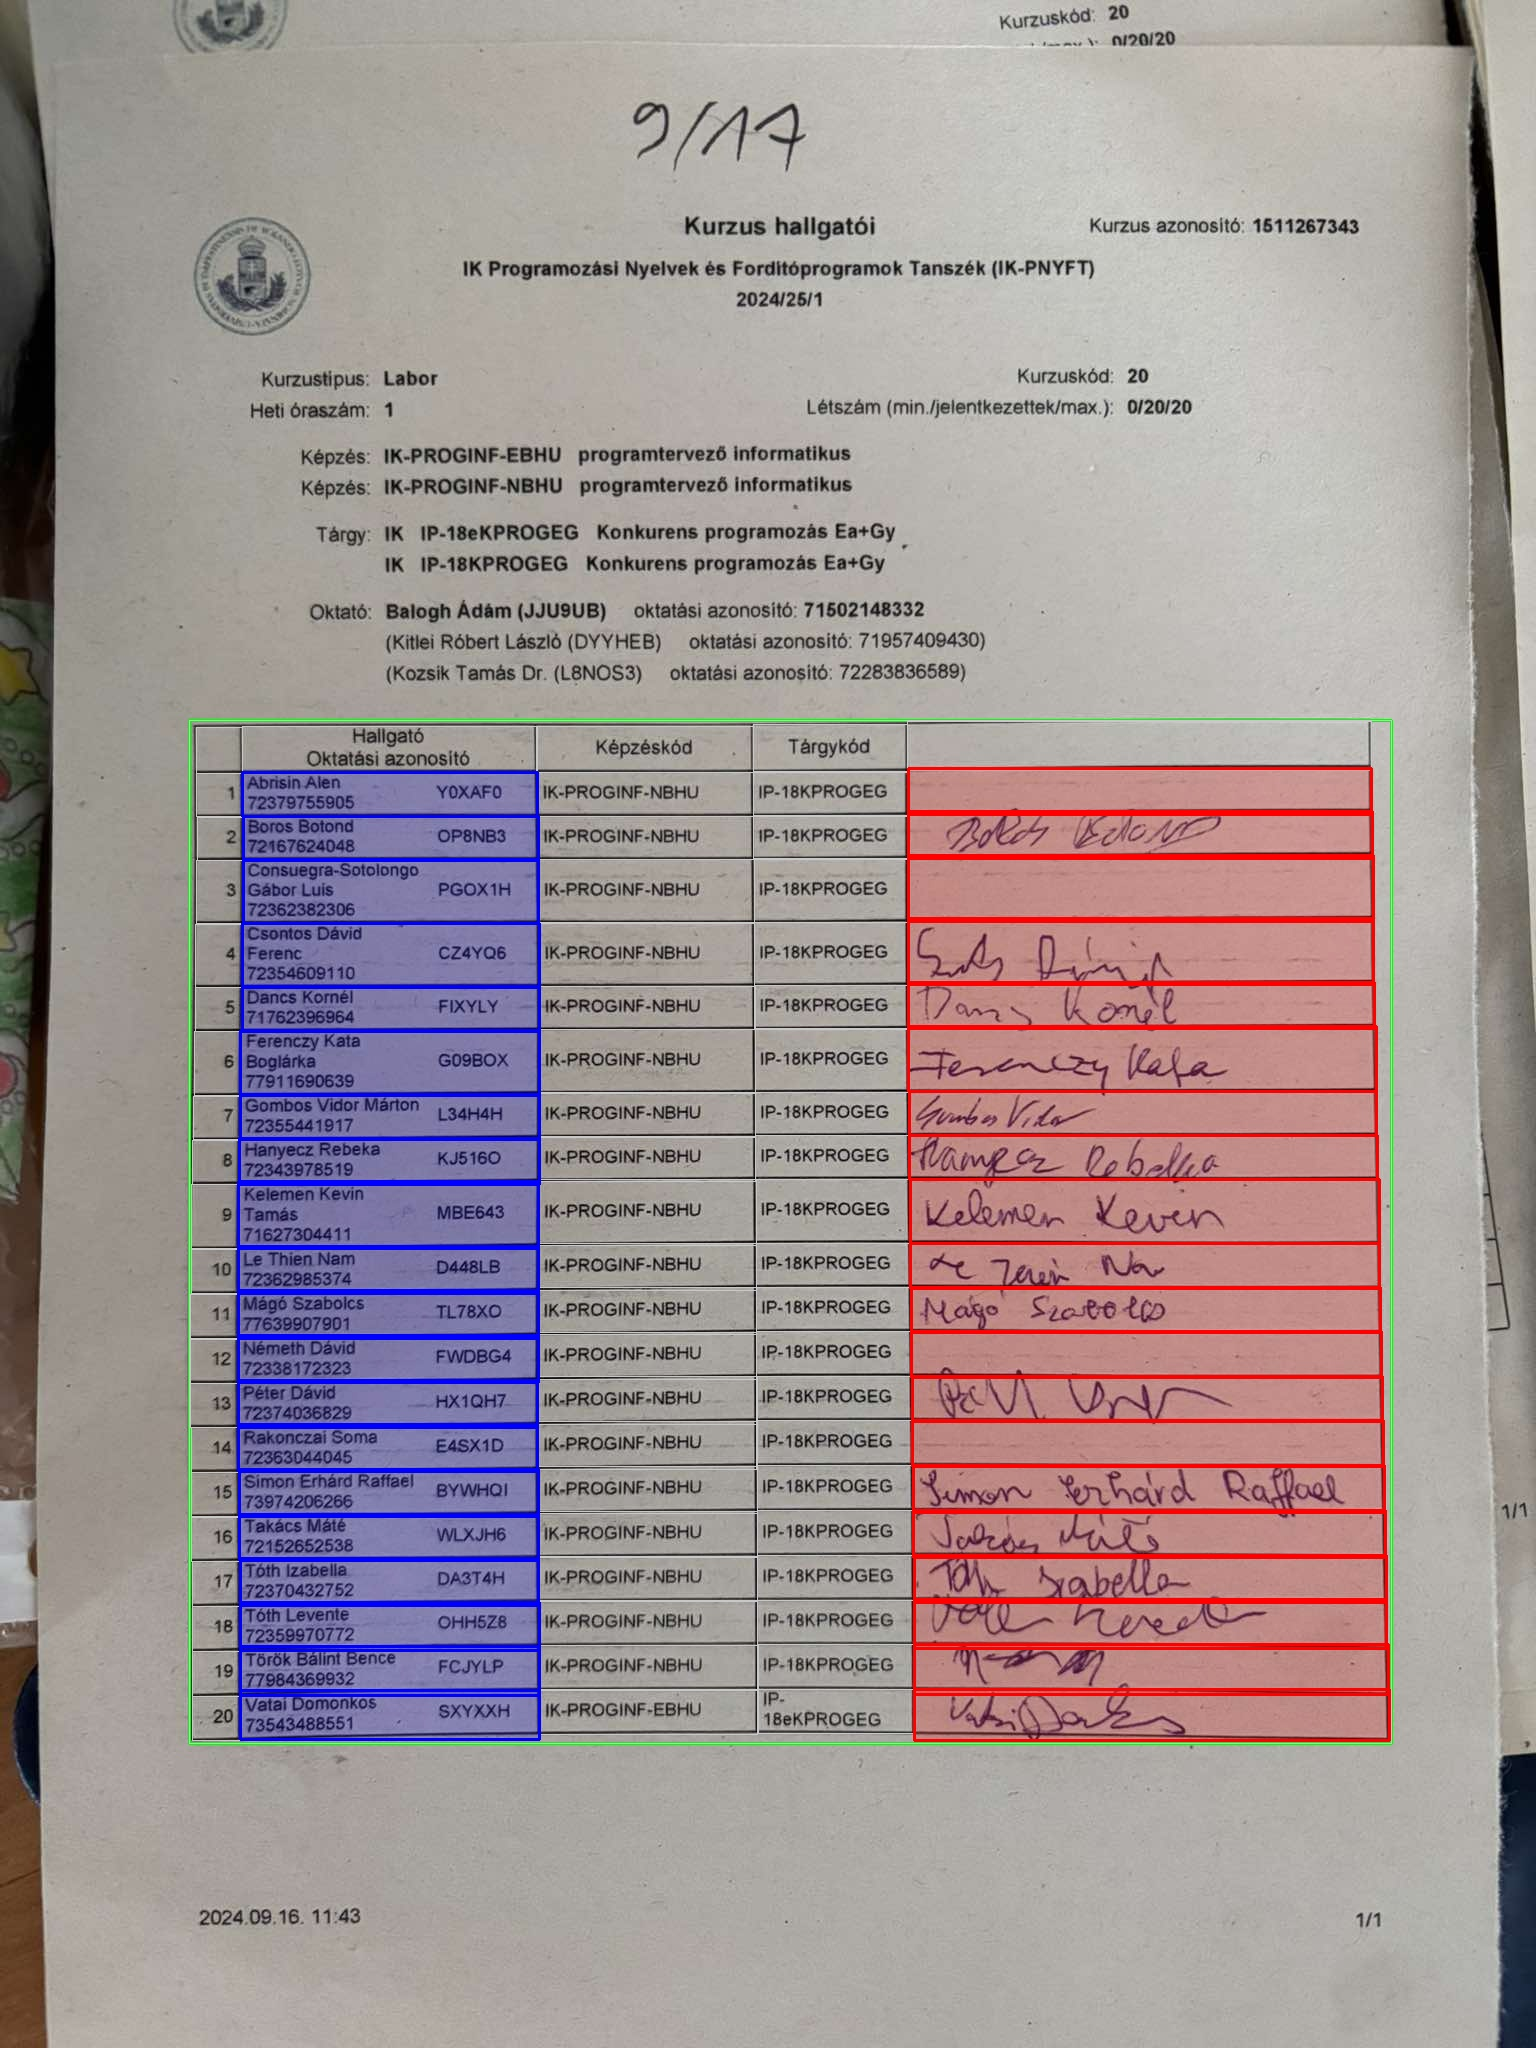
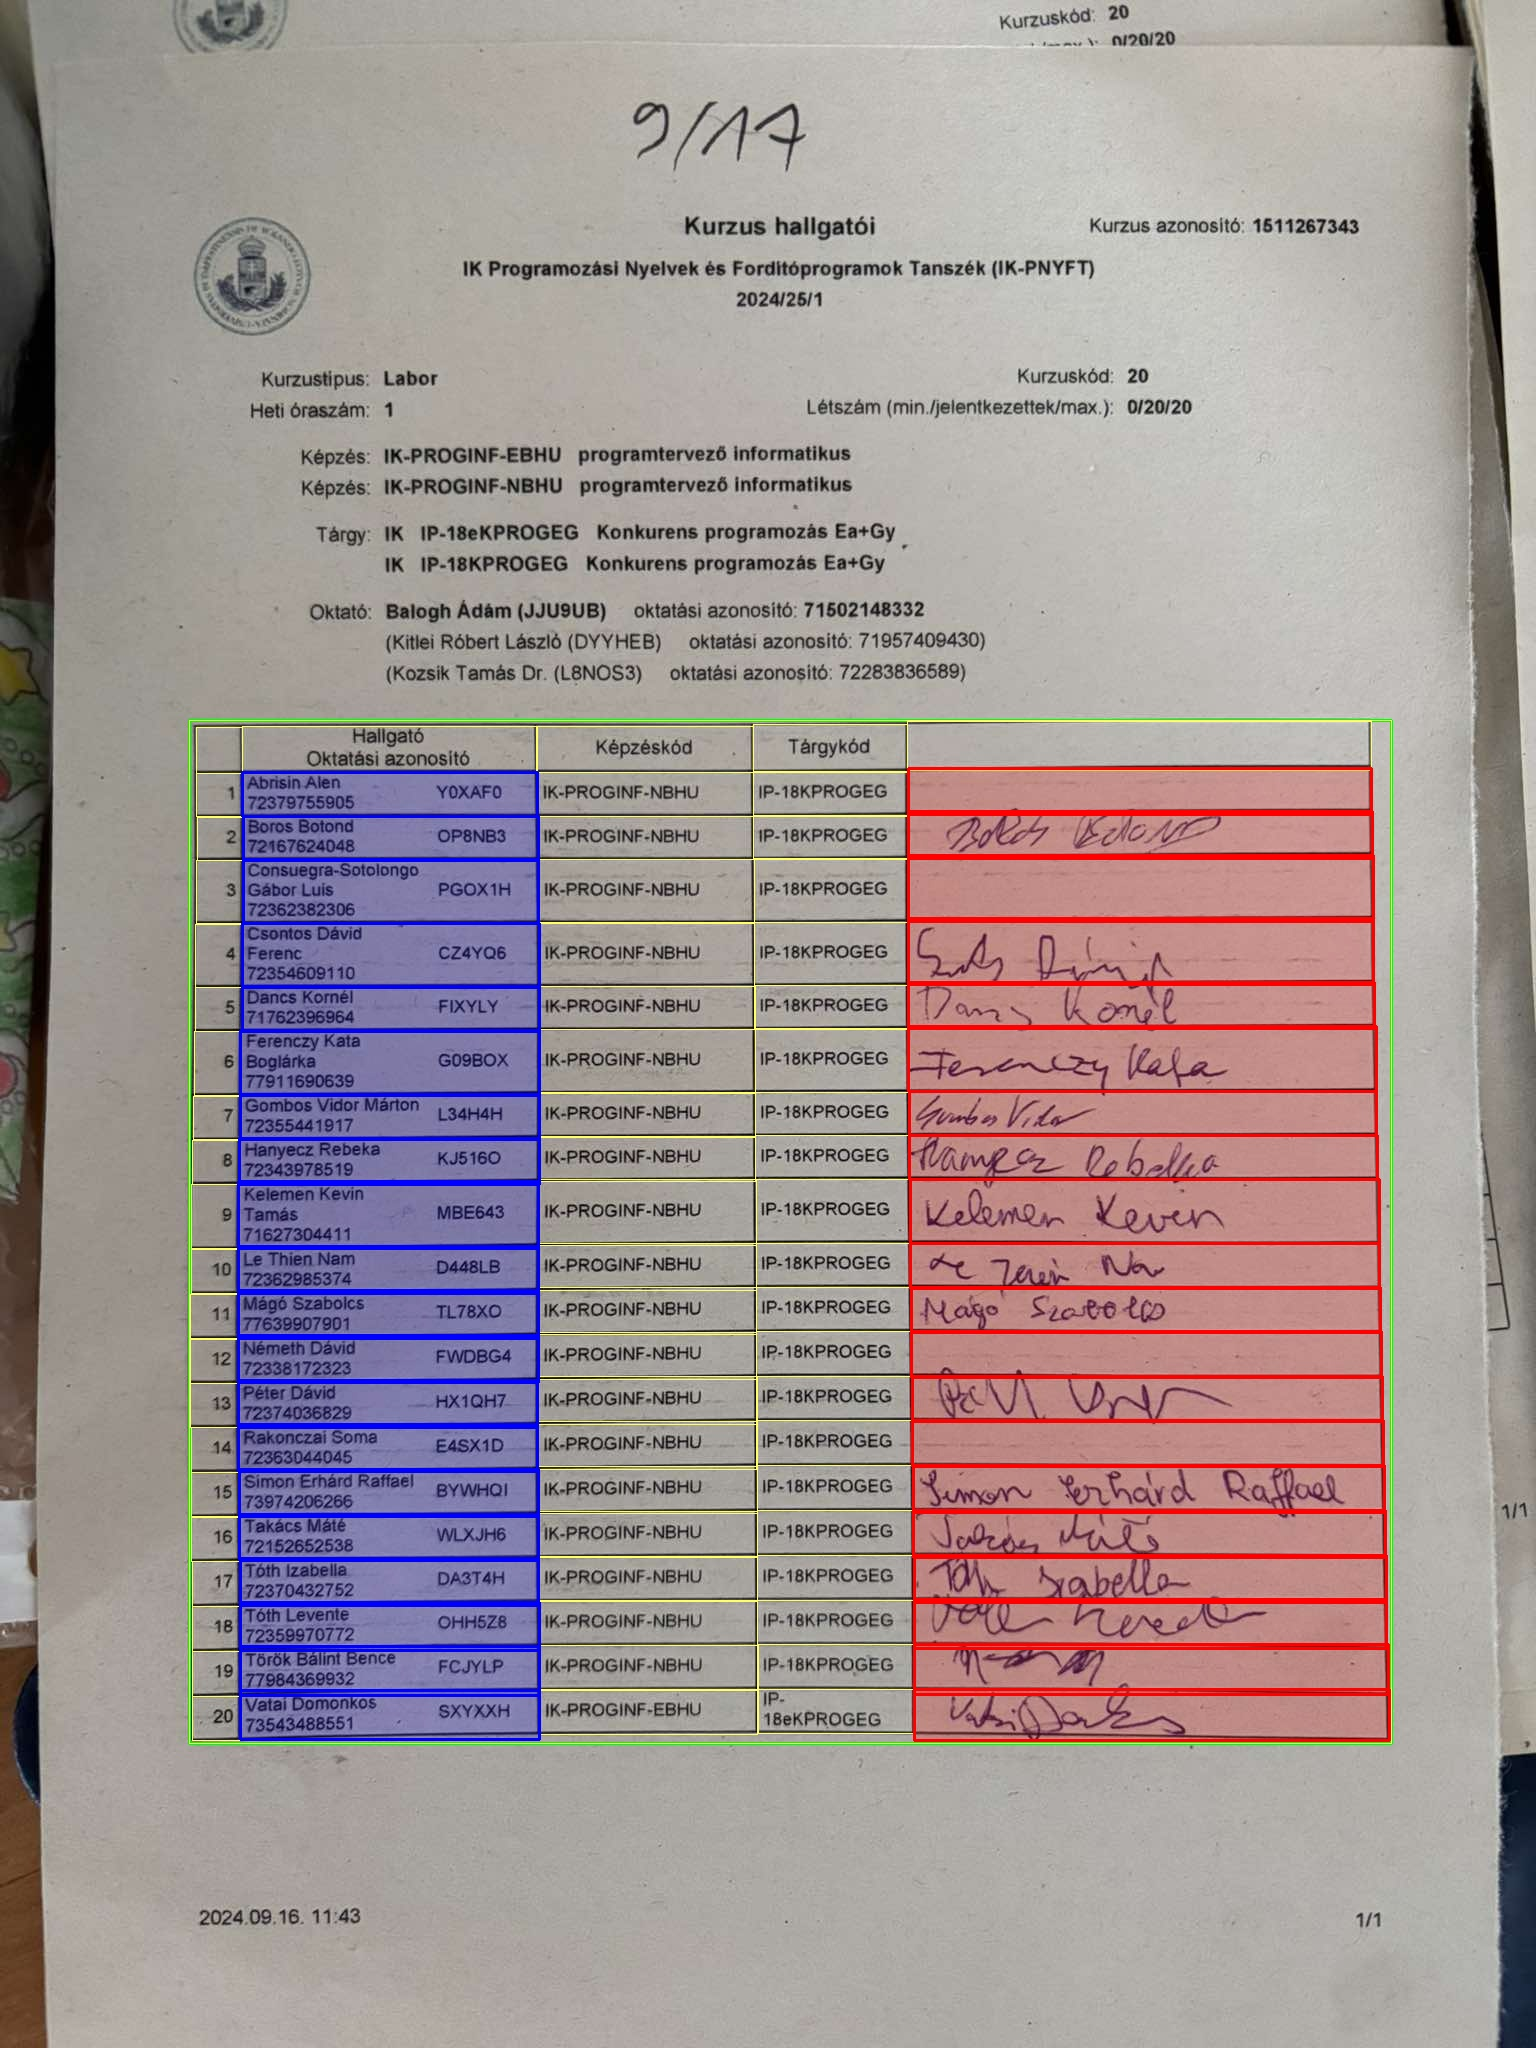
Update table detection functionality: change cell highlight color to light yellow and improve text extraction comments. Update output image file.

diff --git a/app.py b/app.py
@@ -1,0 +1,80 @@
+from flask import Flask, request, jsonify
+from werkzeug.utils import secure_filename
+import os
+from table_detector import detect_table_and_cells
+from flask_cors import CORS
+import json
+
+app = Flask(__name__)
+# Configure CORS to accept requests from any origin
+CORS(app, resources={
+    r"/*": {
+        "origins": "*",
+        "methods": ["POST", "OPTIONS"],
+        "allow_headers": ["Content-Type", "Authorization"]
+    }
+})
+
+# Configure upload folder
+UPLOAD_FOLDER = 'uploads'
+if not os.path.exists(UPLOAD_FOLDER):
+    os.makedirs(UPLOAD_FOLDER)
+
+# Configure allowed extensions
+ALLOWED_EXTENSIONS = {'png', 'jpg', 'jpeg'}
+
+def allowed_file(filename):
+    return '.' in filename and filename.rsplit('.', 1)[1].lower() in ALLOWED_EXTENSIONS
+
+@app.route('/process_table', methods=['POST', 'OPTIONS'])
+def process_table():
+    # Handle preflight requests
+    if request.method == 'OPTIONS':
+        return '', 204
+        
+    try:
+        print("Received request", request.files)  # Debug print
+        
+        # Check if image was sent in request
+        if 'image' not in request.files:
+            print("No image in request")  # Debug print
+            return jsonify({'error': 'No image file provided'}), 400
+        
+        file = request.files['image']
+        print(f"Received file: {file.filename}")  # Debug print
+        
+        # Check if a file was selected
+        if file.filename == '':
+            return jsonify({'error': 'No file selected'}), 400
+            
+        # Check if file type is allowed
+        if not allowed_file(file.filename):
+            return jsonify({'error': 'File type not allowed'}), 400
+            
+        # Save the uploaded file
+        filename = secure_filename(file.filename)
+        filepath = os.path.join(UPLOAD_FOLDER, filename)
+        file.save(filepath)
+        print(f"Saved file to: {filepath}")  # Debug print
+        
+        # Process the image
+        detect_table_and_cells(filepath)
+        print("Image processed successfully")  # Debug print
+        
+        # Read and return only the results from result.json
+        with open('result.json', 'r', encoding='utf-8') as f:
+            results = json.load(f)
+            
+        # Clean up - remove the uploaded file
+        os.remove(filepath)
+        print("File cleanup completed")  # Debug print
+            
+        return jsonify(results)
+        
+    except Exception as e:
+        print(f"Error occurred: {str(e)}")  # Debug print
+        return jsonify({'error': str(e)}), 500
+
+if __name__ == '__main__':
+    print("Starting server on port 5000...")  # Debug print
+    app.run(debug=True, port=5000, host='0.0.0.0') 

diff --git a/table_detector.py b/table_detector.py
@@ -94,7 +94,7 @@ def extract_text_from_cell(image, x, y, w, h):
     # Convert to PIL Image for better OCR
     cell_pil = Image.fromarray(cv2.cvtColor(cell_region, cv2.COLOR_BGR2RGB))
     
-    # Use tesseract to extract text
+    # Use tesseract to extract text 
     text = pytesseract.image_to_string(cell_pil, config='--psm 6').strip()
     return text
 
@@ -236,13 +236,13 @@ def detect_table_and_cells(image_path):
                 sorted_columns = sorted(columns.items(), key=lambda x: x[0])
                 print(f"Found {len(sorted_columns)} columns")
                 
-                # Draw all cells in light gray
+                # Draw all cells in light yellow
                 for cell in valid_cells:
                     cell_x, cell_y, cell_w, cell_h = cell
                     cv2.rectangle(output_image, 
                                 (x + cell_x, y + cell_y), 
                                 (x + cell_x + cell_w, y + cell_y + cell_h), 
-                                (200, 200, 200), 1)
+                                (102, 255, 255), 1)  # Light yellow in BGR format
                 
                 # Function to highlight a column with a specific color
                 def highlight_column(column_cells, color):
